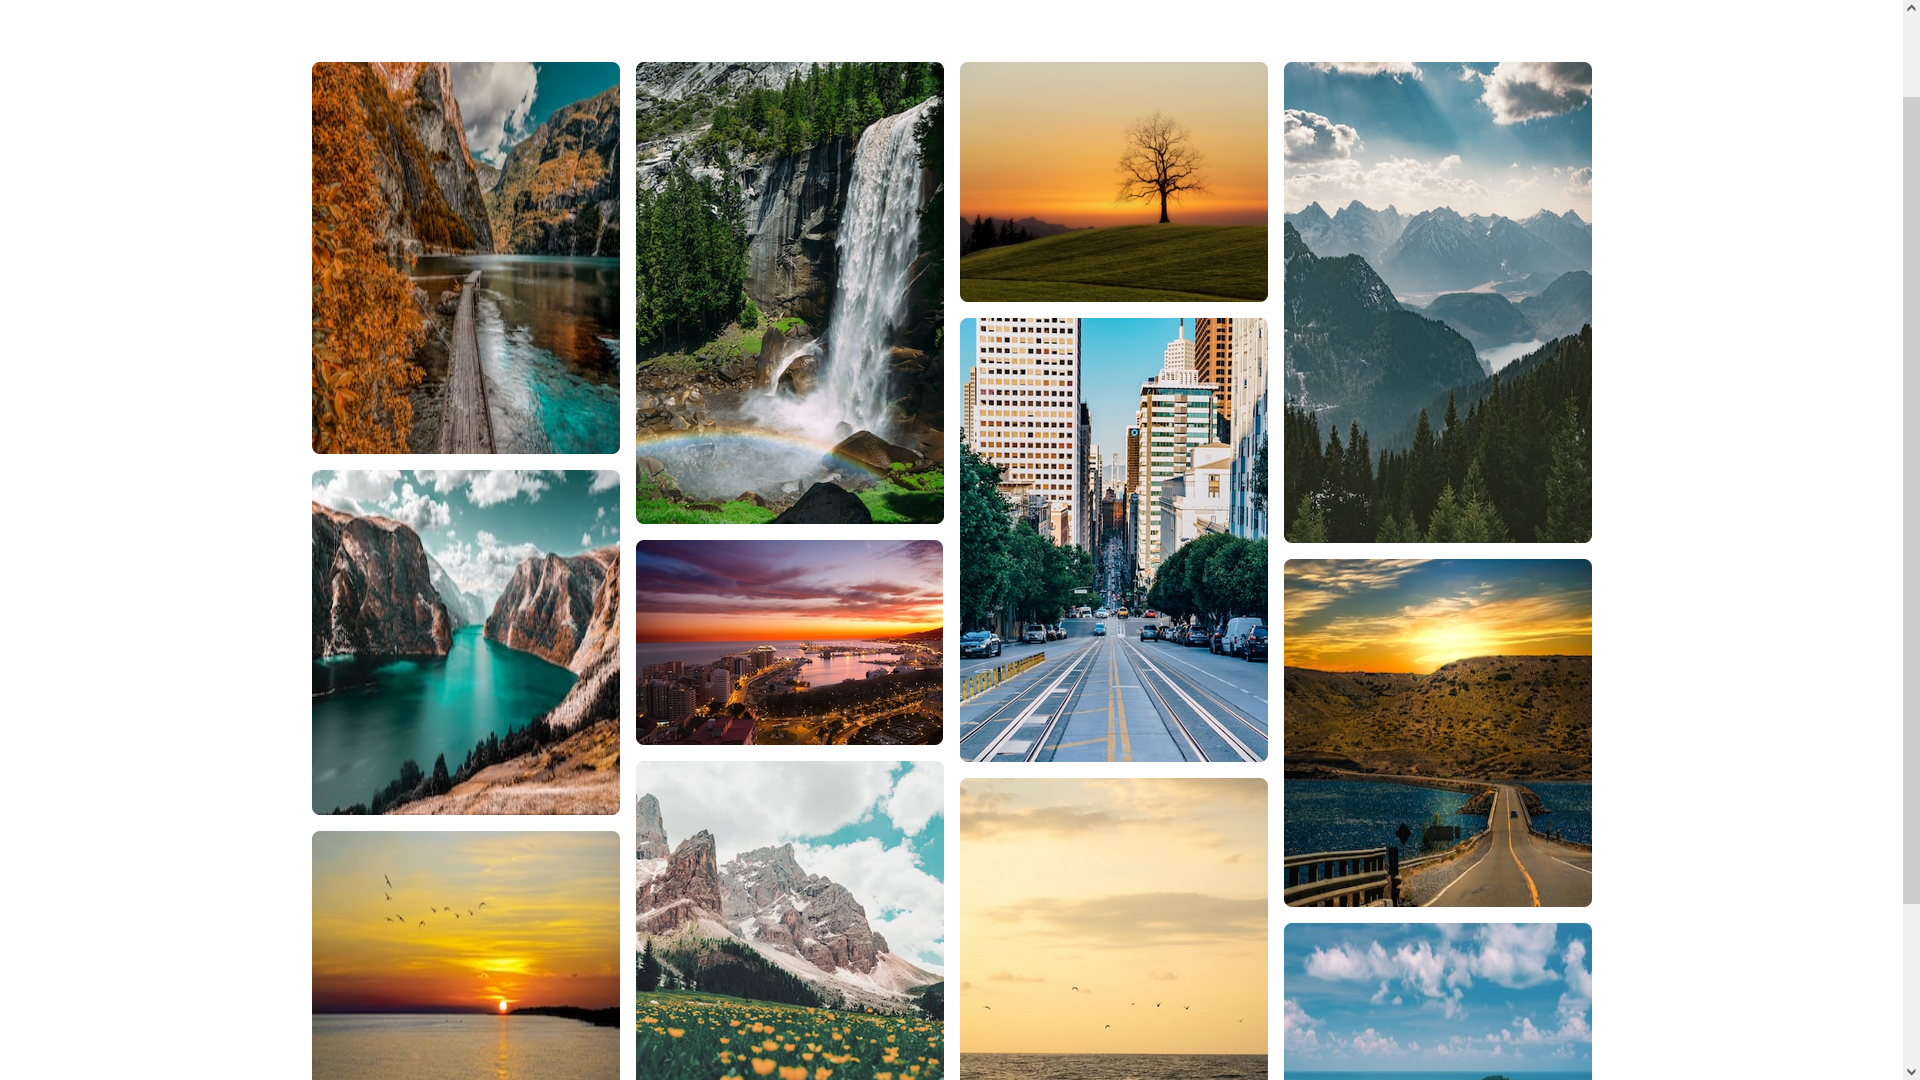
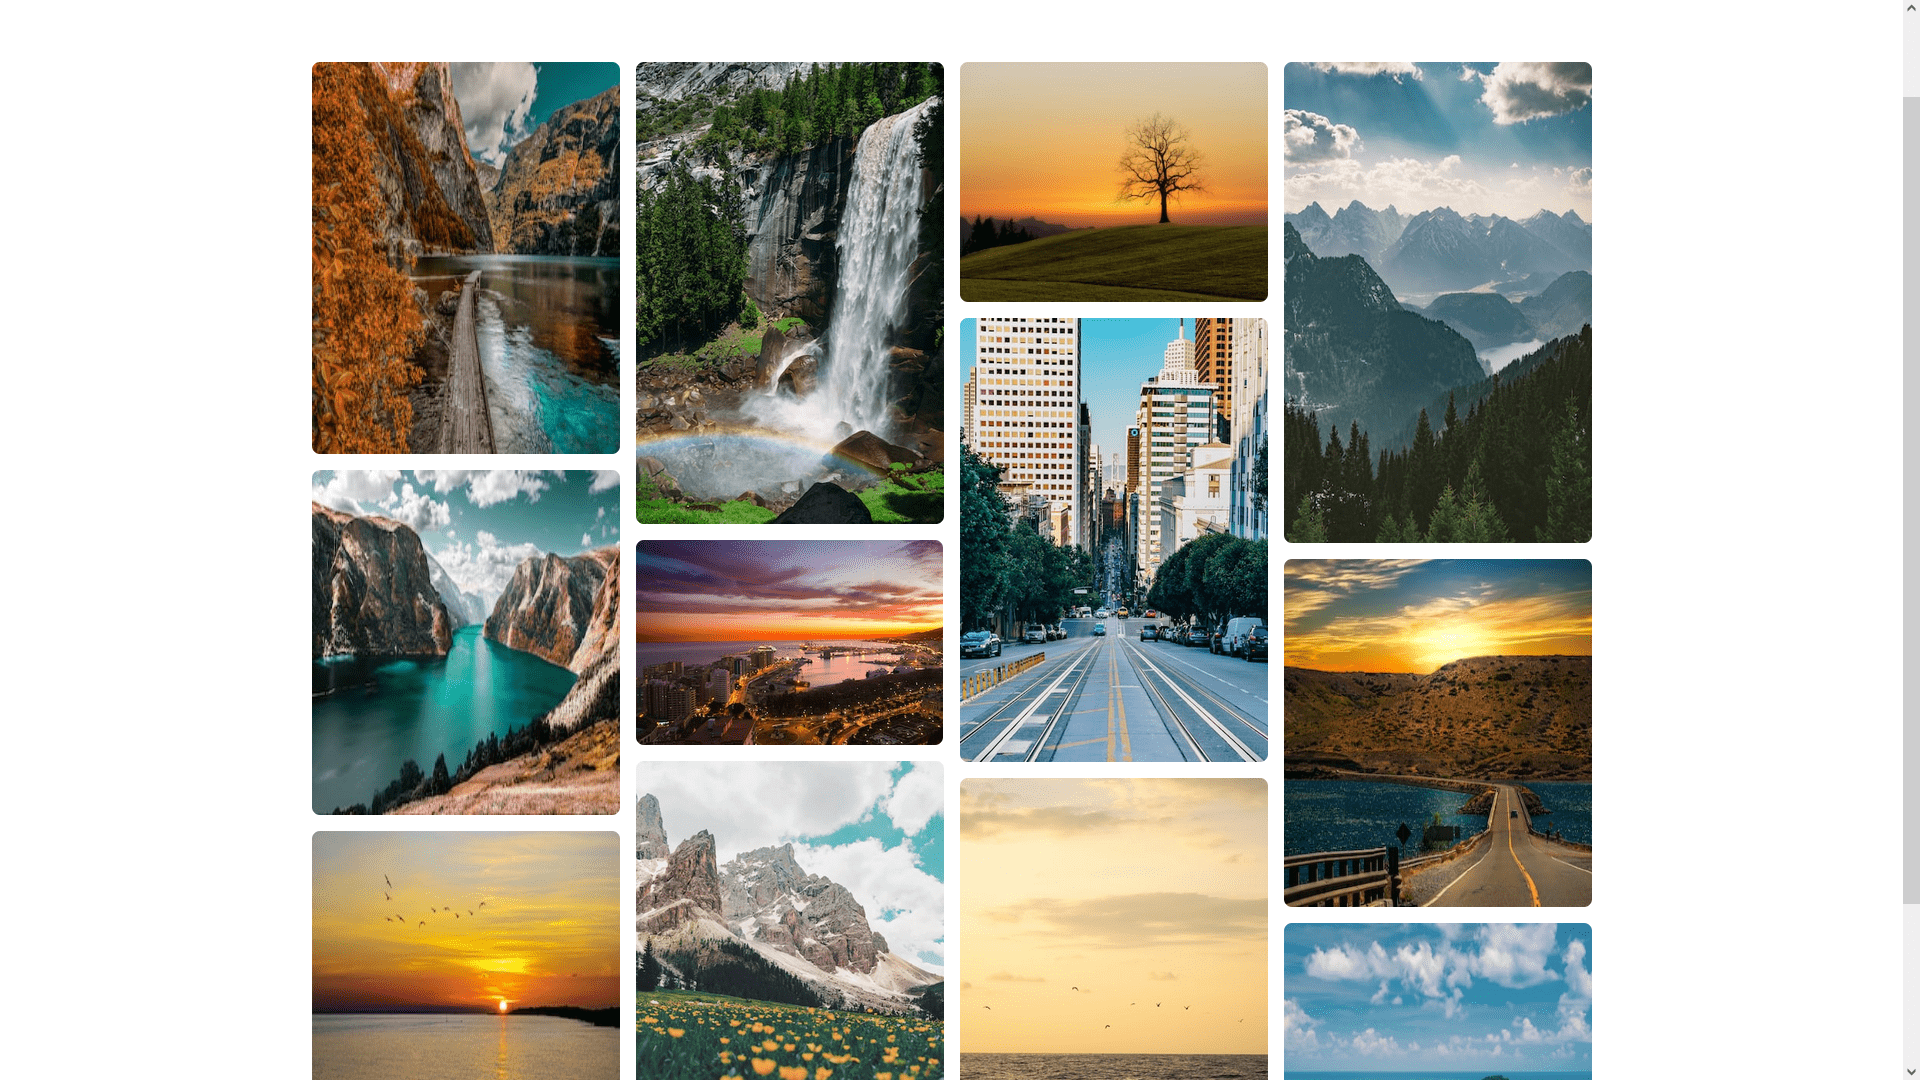
fix nav, imgs compresseds

diff --git a/src/components/Icons.jsx b/src/components/Icons.jsx
@@ -185,3 +185,116 @@ export const NodeJSIcon = (className, ...props) => (
     </g>
   </svg>
   )
+
+ export const ContactSvg = (props) => (
+    <svg
+      xmlns="http://www.w3.org/2000/svg"
+      width={890}
+      height={729.787}
+      data-name="Layer 1"
+      {...props}
+    >
+      <path
+        fill="#2f2e41"
+        d="m219.677 665.91 1.81 38.156v.002a24.345 24.345 0 0 1-23.163 25.47l-.79.037-2.964-62.474Z"
+      />
+      <path
+        fill="#e6e6e6"
+        d="M762.171 601.427c-18.173 35.465-41.224 69.764-70.389 100.808-.648.7-1.302 1.384-1.962 2.08l-69.1-32.714c.422-.702.885-1.49 1.384-2.352 29.683-50.787 208.865-360.592 203.203-430.759.66 5.787 21.898 197.17-63.136 362.937Z"
+      />
+      <path
+        fill="#e6e6e6"
+        d="M705.113 708.546a92.323 92.323 0 0 1-2.957 1.608l-51.838-24.54c.725-.515 1.57-1.123 2.54-1.806 15.88-11.403 63.105-45.614 109.313-82.38 49.658-39.512 98.152-81.965 105.354-102.23-1.463 4.648-46.914 145.898-162.412 209.348Z"
+      />
+      <circle cx={86.23} cy={648.051} r={80} fill="#a4d8d8" />
+      <path
+        fill="#fff"
+        d="M118.275 614.48h-64.09a10.694 10.694 0 0 0-10.682 10.681v45.78a10.694 10.694 0 0 0 10.681 10.681h64.091a10.694 10.694 0 0 0 10.682-10.682v-45.779a10.694 10.694 0 0 0-10.682-10.682Zm0 6.103a4.559 4.559 0 0 1 1.134.148l-33.172 26.461-32.978-26.515a4.58 4.58 0 0 1 .925-.094Zm0 54.935h-64.09a4.583 4.583 0 0 1-4.579-4.578v-45.368l34.711 27.91a3.052 3.052 0 0 0 3.816.006l34.72-27.696v45.148a4.583 4.583 0 0 1-4.578 4.578Z"
+      />
+      <path
+        fill="#ffb8b8"
+        d="m394.968 532.551 17.9.148a12.454 12.454 0 0 0 12.399-14.43 12.454 12.454 0 0 0-17.807-9.192l-16.88 8.33-57.737 12.875-24.735-25.289-14.208 23.401 33.378 25.788Z"
+      />
+      <path
+        fill="#2f2e41"
+        d="m391.613 717.49-21.09 4.056c-14.404-45.409-30.012-88.411-30.011-121.67-20.386 22.688-45.667 35.669-75.436 39.745l3.245-50.29 24.334-12.979 37.243-17.189a28.28 28.28 0 0 1 10.365-2.563 28.28 28.28 0 0 1 29.412 23.773Z"
+      />
+      <path
+        fill="#2f2e41"
+        d="m290.627 633.537-8.405 6.389a26.03 26.03 0 0 1-25.663 3.345c-24.075-18.046-41.179-12.722-56.681 14.516-18.594-20.985-23.182-51.294-6.587-82.651l92.064 2.028 18.656-5.678Z"
+      />
+      <path
+        fill="#2f2e41"
+        d="M259.967 727.517a23.507 23.507 0 0 1-27.82-11.721c-8.274-7.288-15.255-17.721-21.31-30.409a235.353 235.353 0 0 1-11.167-28.683c-4.19-12.94 2.816-27.077 15.855-30.948q.582-.173 1.177-.326c17.407-4.469 35.282 5.57 41.232 22.528l17.3 49.308a23.507 23.507 0 0 1-14.398 29.964q-.432.152-.87.287Z"
+      />
+      <path
+        d="M362.891 764.878s20.279 22.712 24.334 35.69"
+        opacity={0.2}
+        style={{
+          isolation: "isolate",
+        }}
+        transform="translate(-155 -85.106)"
+      />
+      <path
+        fill="#ffb8b8"
+        d="m129.244 572.587-6.787 16.564a12.454 12.454 0 0 0 8.791 16.872 12.454 12.454 0 0 0 15.15-13.118l-1.463-18.767 9.496-58.387 32.668-13.57-16.447-21.885-36.343 21.409Z"
+      />
+      <path
+        fill="#a4d8d8"
+        d="M291.438 575.136c-23.306 39.147-69.767 54.306-109.56 23.651 7-23 29.6-86.566 15-89-31 13-31.045-17.523-36.844-32.799l70.57-25.956 38.123 10.545 7.814 2.773a26.42 26.42 0 0 1 17.583 24.537c-16.015 23.135-27.87 47.815-2.686 86.249Z"
+      />
+      <path
+        fill="#a4d8d8"
+        d="m300.36 543.502-27.983-23.118 9.328-53.94L319.828 507Z"
+      />
+      <path
+        fill="#3f3d56"
+        d="M764.705 172.945h-4V63.4a63.4 63.4 0 0 0-63.4-63.4H465.218a63.4 63.4 0 0 0-63.4 63.4v600.974a63.4 63.4 0 0 0 63.4 63.4h232.085a63.4 63.4 0 0 0 63.4-63.4V250.921h4Z"
+        data-name="b82a9922-ead1-40af-af3b-f133b244cde7"
+      />
+      <path
+        fill="#fff"
+        d="M699.862 16.493h-30.295a22.495 22.495 0 0 1-20.828 30.994H515.78a22.495 22.495 0 0 1-20.826-30.991h-28.3a47.348 47.348 0 0 0-47.348 47.348v600.089a47.348 47.348 0 0 0 47.348 47.348h233.2a47.348 47.348 0 0 0 47.348-47.348V63.84a47.348 47.348 0 0 0-47.348-47.348h.009Z"
+        data-name="b2a7827b-2d2c-407d-93be-35e4c67116bc"
+      />
+      <circle
+        cx={583.658}
+        cy={651.746}
+        r={26}
+        fill="#e6e6e6"
+        data-name="e6b07811-3d0f-4972-ba4c-46b0c6566e33"
+      />
+      <path
+        fill="#e6e6e6"
+        d="M478.182 411.298c-2.457 0-4.457 2.283-4.457 5.088s2 5.088 4.457 5.088h210.143c2.457 0 4.457-2.283 4.457-5.088s-2-5.088-4.457-5.088ZM478.182 531.298c-2.457 0-4.457 2.283-4.457 5.088s2 5.088 4.457 5.088h210.143c2.457 0 4.457-2.283 4.457-5.088s-2-5.088-4.457-5.088ZM478.182 441.826c-2.457 0-4.457 2.282-4.457 5.087s2 5.088 4.457 5.088h90.425c2.458 0 4.458-2.282 4.458-5.088s-2-5.087-4.458-5.087ZM478.182 470.924c-2.457 0-4.457 2.283-4.457 5.088s2 5.088 4.457 5.088h210.143c2.457 0 4.457-2.283 4.457-5.088s-2-5.088-4.457-5.088ZM478.182 501.451c-2.457 0-4.457 2.283-4.457 5.088s2 5.088 4.457 5.088h90.425c2.458 0 4.458-2.283 4.458-5.088s-2-5.088-4.458-5.088Z"
+      />
+      <path
+        fill="#a4d8d8"
+        d="M517.853 179.627h130.814a5.457 5.457 0 0 1 5.45 5.45v136.238a5.457 5.457 0 0 1-5.45 5.45H517.853a5.457 5.457 0 0 1-5.45-5.45V185.078a5.457 5.457 0 0 1 5.45-5.45Z"
+      />
+      <path
+        fill="#fff"
+        d="M620.793 298.67a3.7 3.7 0 1 0 .004-7.4h-75.07a3.7 3.7 0 1 0-.004 7.4h75.07ZM620.793 276.868a3.7 3.7 0 0 0 0-7.4h-75.066a3.7 3.7 0 1 0-.004 7.4h75.07ZM583.26 207.722a23.293 23.293 0 1 1-23.293 23.292 23.319 23.319 0 0 1 23.293-23.292Z"
+      />
+      <path
+        fill="#2f2e41"
+        d="M286.064 443.97h-69.15a5.371 5.371 0 0 1-5.365-5.365V408.8a39.94 39.94 0 1 1 79.88 0v29.806a5.371 5.371 0 0 1-5.365 5.365Z"
+      />
+      <circle
+        cx={414.124}
+        cy={497.999}
+        r={29.283}
+        fill="#ffb6b6"
+        transform="rotate(-61.337 264.866 586.134)"
+      />
+      <path
+        fill="#2f2e41"
+        d="M300.878 411.78h-42.283l-.434-6.07-2.168 6.07h-6.51l-.86-12.032-4.297 12.032h-12.598v-.596a31.63 31.63 0 0 1 31.594-31.595h5.962a31.63 31.63 0 0 1 31.594 31.595Z"
+      />
+      <path
+        fill="#2f2e41"
+        d="M258.248 449.534a5.481 5.481 0 0 1-.949-.084l-30.962-5.463v-51.17h34.083l-.844.983c-11.74 13.693-2.895 35.894 3.422 47.91a5.286 5.286 0 0 1-.42 5.612 5.344 5.344 0 0 1-4.33 2.212ZM361.333 702.175l38.2-.001h.001a24.345 24.345 0 0 1 24.344 24.343v.791l-62.544.003Z"
+      />
+      <path fill="#cacaca" d="M889 729.787H1a1 1 0 0 1 0-2h888a1 1 0 0 1 0 2Z" />
+    </svg>
+  )

diff --git a/src/components/Views/Contact.jsx b/src/components/Views/Contact.jsx
@@ -1,6 +1,7 @@
 import React from 'react';
 import { useForm, ValidationError } from '@formspree/react';
 import { Layout } from '../Layout';
+import { ContactSvg } from '../Icons';
 
 export const Contact = () => {
   const [state, handleSubmit] = useForm("xaygqawn");
@@ -8,7 +9,7 @@ export const Contact = () => {
     return (
       <div className="h-11">
 
-        <p className='text-arsenic text-4x1'>Gracias por tu mensaje</p>
+        <p className='text-arsenic text-4x1 mb-4'>Gracias por tu mensaje</p>
       </div>
     );
   }
@@ -16,7 +17,9 @@ export const Contact = () => {
 
     <div className="w-5/6 p-4">
       <h2 className='text-arsenic p-4 text-5xl text-center'>Contacto</h2>
-      <form onSubmit={handleSubmit} className='bg-white shadow-md rounded px-8'>
+      <div className="relative left-0 top-0">
+      
+      <form onSubmit={handleSubmit} className=' bg-white shadow-md rounded px-8'>
         <div className="grid items-center border-b border-pastel-cyan">
           <div className='my-4'> 
 
@@ -72,6 +75,8 @@ export const Contact = () => {
         </div>
 
       </form>
+      
+      </div>
     </div>
   );
 }

diff --git a/src/components/shareds/navbar/Navbar.jsx b/src/components/shareds/navbar/Navbar.jsx
@@ -50,7 +50,7 @@ export const Navbar = () => {
         </div>
       </div>
       <nav className={`${isOpen ? 'block' : 'hidden'} px-2 pt-2 pb-4 smd:flex smd:p-0 smd:flex-row gap-7 flex flex-col justify-center w-full items-center`} >
-        <Link activeClass={estilos.isActive} to="hero" className="block cursor-pointer smd:hover:text-shadowc font-semibold smd:dmt-0 smd:ml-2  "  offset={-100} spy={true} smooth={true} duration={500} >
+        <Link activeClass={estilos.isActive} to="hero" className="block cursor-pointer smd:hover:text-shadowc font-semibold smd:dmt-0 smd:ml-2  "  offset={-200} spy={true} smooth={true} duration={500} >
           Inicio
         </Link>
         <Link activeClass={estilos.isActive} to="about" className="block cursor-pointer smd:hover:text-shadowc font-semibold  smd:dmt-0 smd:ml-2" offset={-140} spy={true} smooth={true} duration={500} >

diff --git a/src/components/Views/Home.jsx b/src/components/Views/Home.jsx
@@ -3,7 +3,6 @@ import { Layout } from '../Layout'
 import { About } from './About'
 import { Contact } from './Contact'
 import { Footer } from '../shareds/footer/Footer'
-import { Skills } from './Skills'
 import { gsap } from 'gsap'
 import { ScrollTrigger } from 'gsap/all'
 
@@ -56,11 +55,7 @@ export const Home = () => {
             <section ref={about} id="about" className='flex items-center text-dark w-full h-full smd:pt-14 pt-4'>
                 <About />
             </section>
-            {/* 
-            <section id='skills' className='flex items-center w-full  section'>
-                <Skills/>
-            </section>
-            */}
+           
             <section ref={contact} id="contact" className='flex justify-center text-dark  h-full '>
                 <Contact />
             </section>

diff --git a/src/router/AppRouter.jsx b/src/router/AppRouter.jsx
@@ -1,7 +1,6 @@
 import React from 'react'
 import { Routes, Route, BrowserRouter } from 'react-router-dom';
 import { Home } from '../components/Views/Home';
-import { About } from '../components/Views/About';
 import { Navbar } from '../components/shareds/navbar/Navbar';
 
 export const AppRouter = () => {
